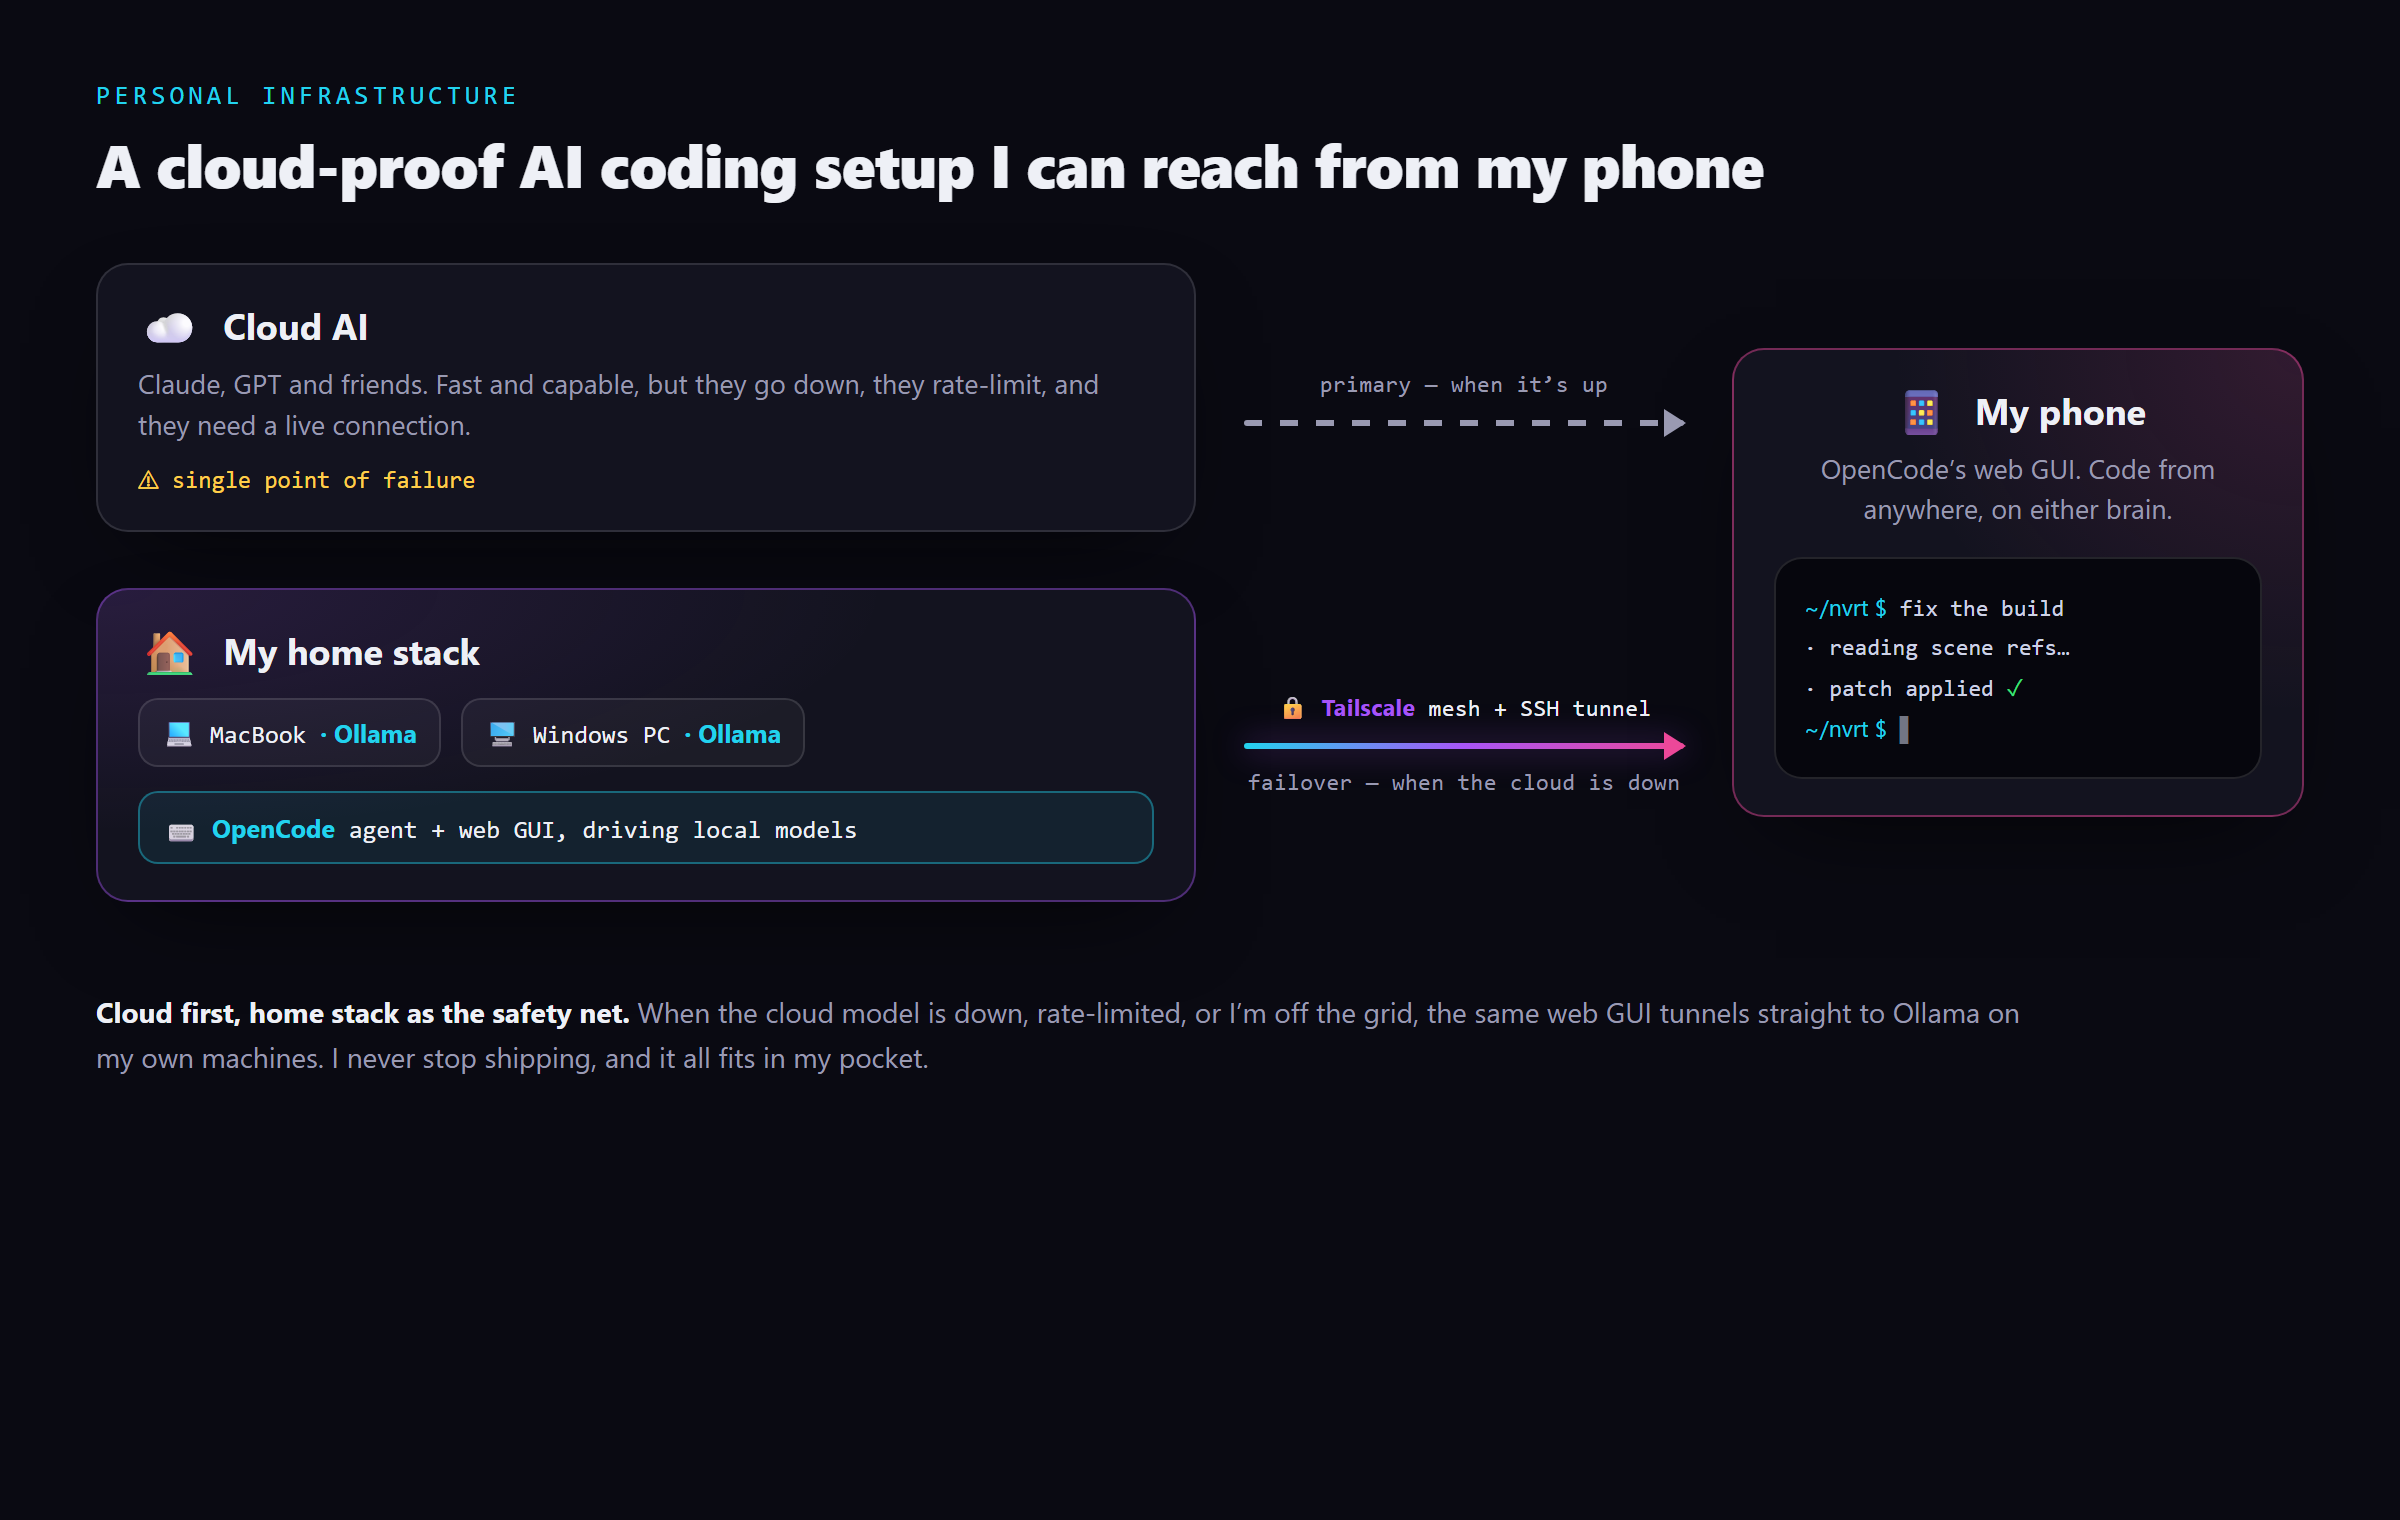
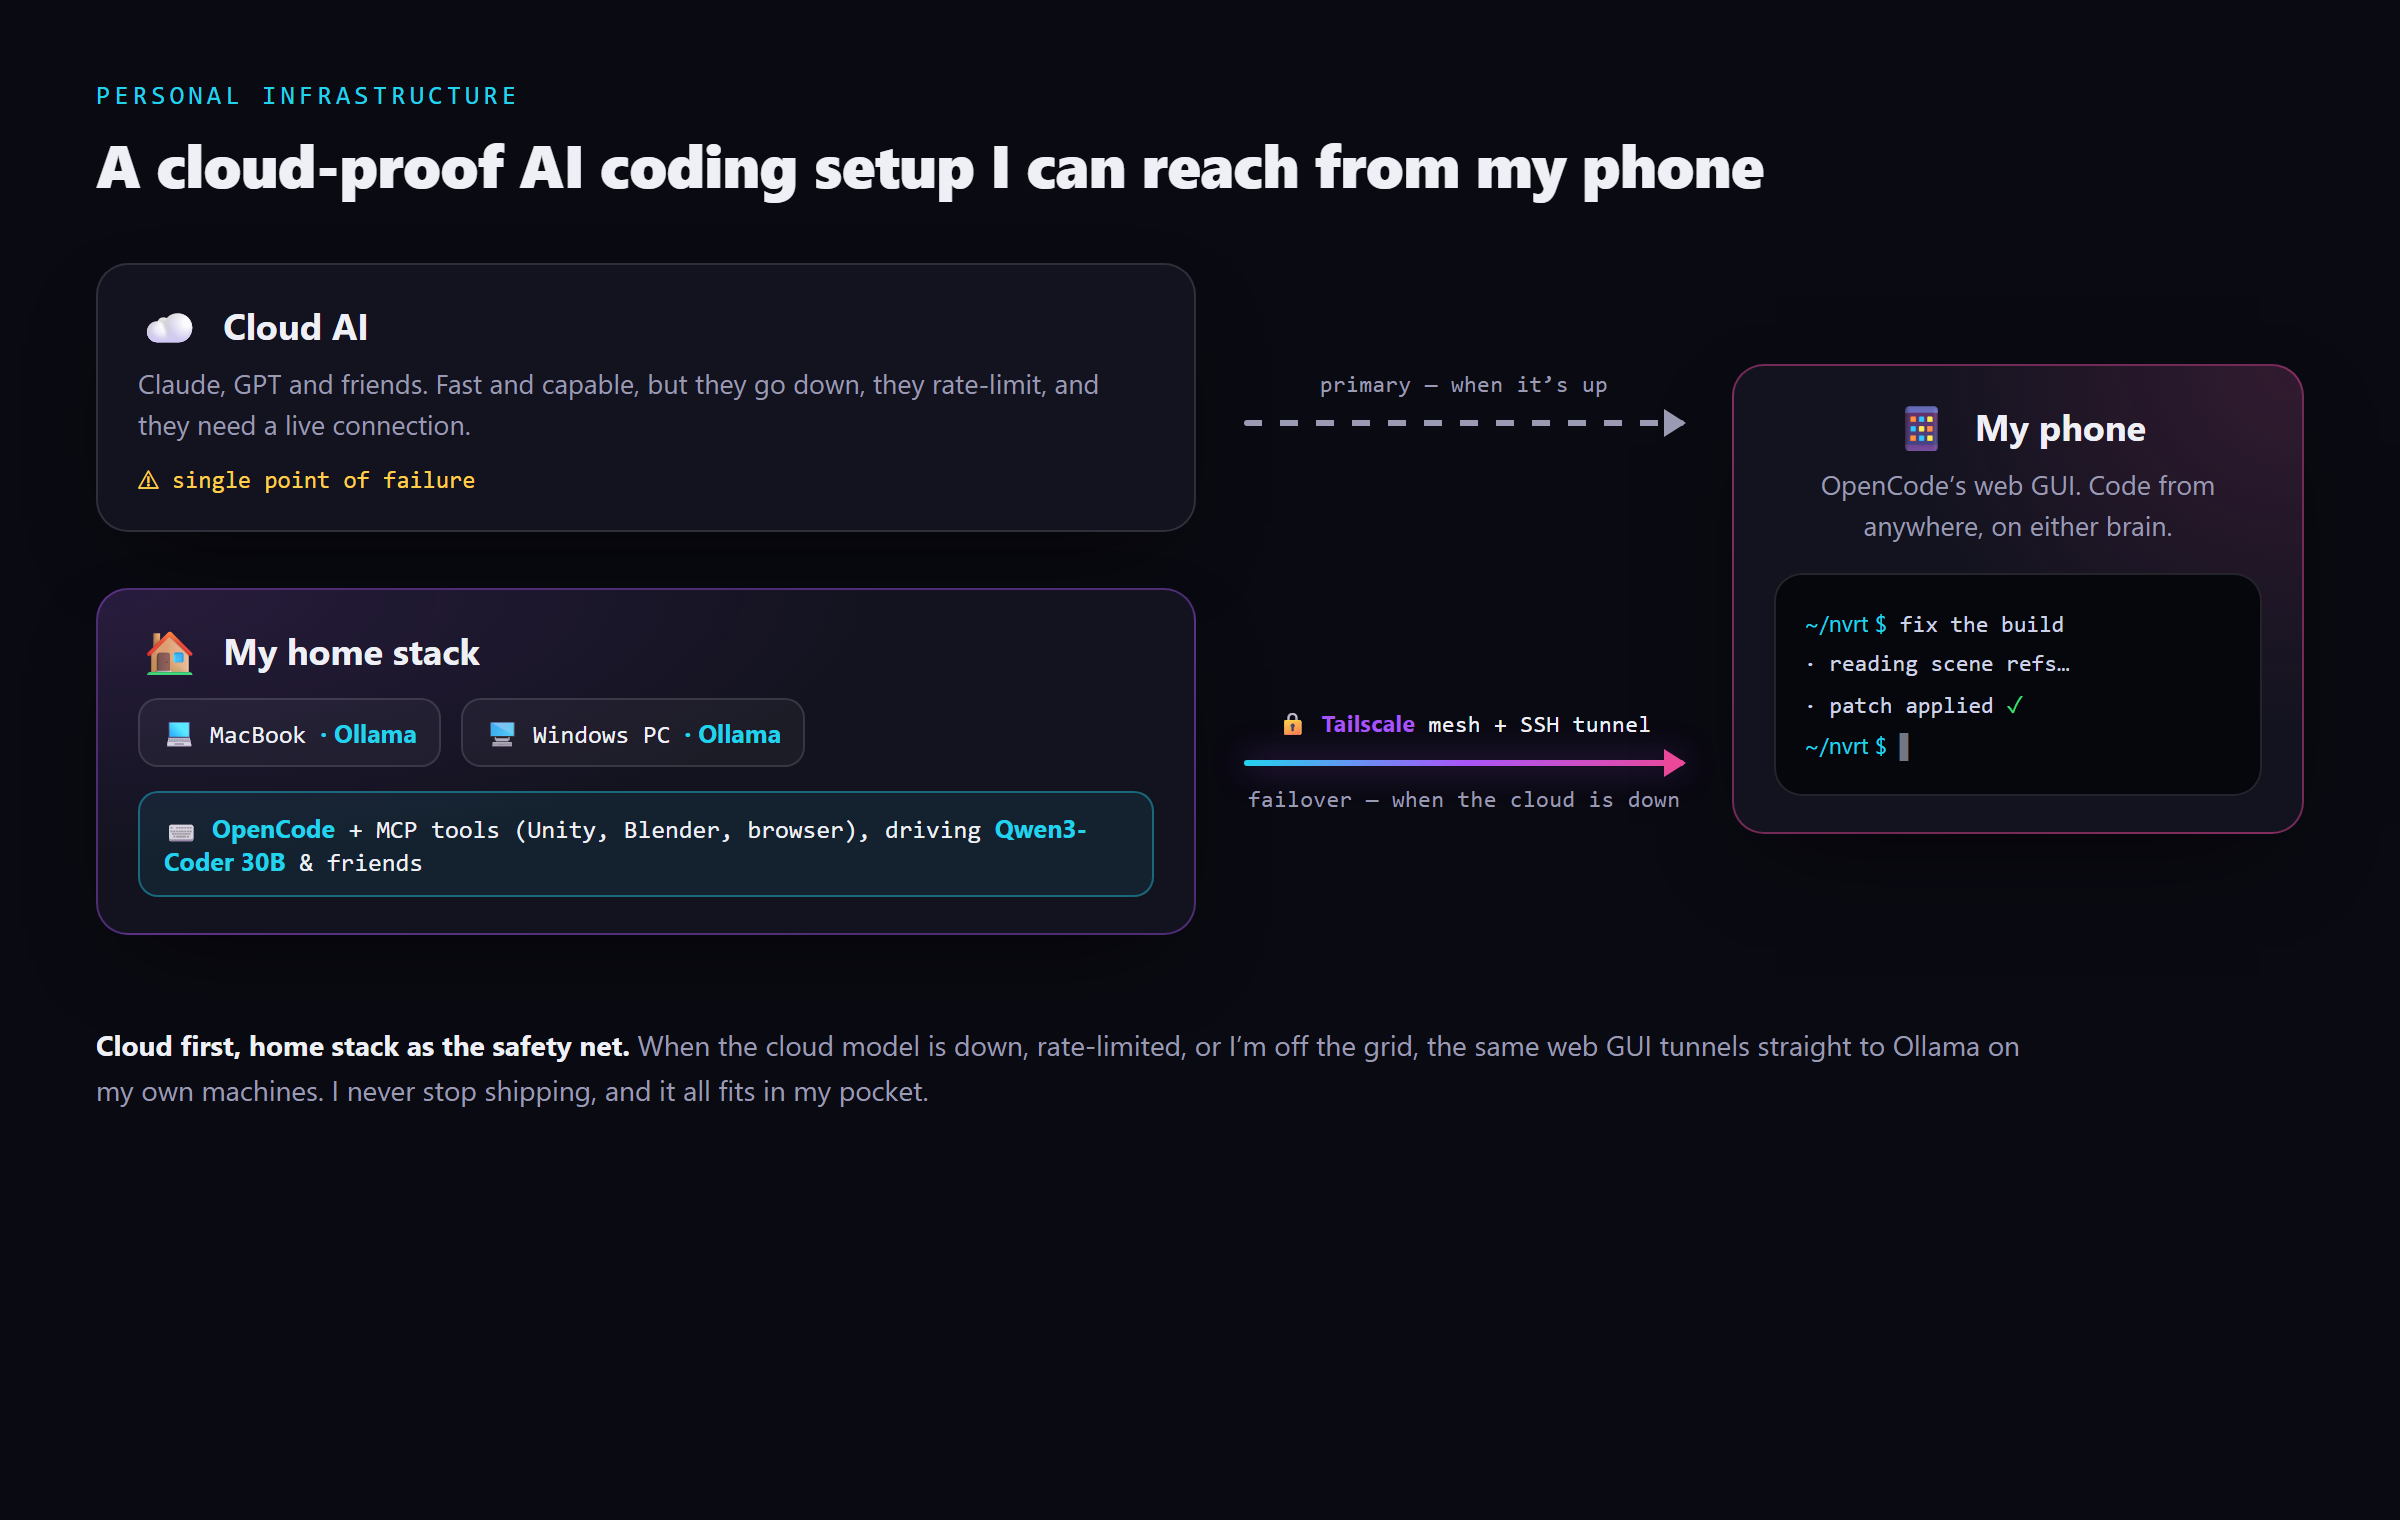
Off the clock: name the real local stack (Qwen3-Coder 30B + MCP tools) in copy and diagram

diff --git a/index.html b/index.html
@@ -566,11 +566,11 @@
   <div class="kicker reveal">04 &middot; Off the clock</div>
   <h2 class="reveal">A cloud-proof AI coding setup I run from my phone</h2>
   <p class="lead reveal">When a cloud AI provider has a bad afternoon, most devs stop. I point my editor at a machine in my apartment and keep going, even from my phone.</p>
-  <img class="infra-img reveal" src="assets/llm-architecture.png?v=1" alt="Architecture: Mac and Windows running Ollama, reached over a Tailscale mesh and an SSH tunnel, driven from a phone through OpenCode's web GUI, as a failover for when cloud AI is down" />
+  <img class="infra-img reveal" src="assets/llm-architecture.png?v=2" alt="Architecture: Mac and Windows running Ollama, reached over a Tailscale mesh and an SSH tunnel, driven from a phone through OpenCode's web GUI, as a failover for when cloud AI is down" />
   <div class="apigrid">
-    <div class="apicard reveal"><div class="ah"><h5>Self-hosted models</h5></div><p>Ollama on both my Mac and my Windows machine, so there is always a local brain awake to fall back to.</p></div>
+    <div class="apicard reveal"><div class="ah"><h5>Self-hosted models</h5></div><p>Ollama on both my Mac and Windows machines, running Qwen3-Coder 30B and a small bench of coding models, so there is always a local brain to fall back to.</p></div>
     <div class="apicard reveal"><div class="ah"><h5>Reachable from anywhere</h5></div><p>A Tailscale mesh plus an SSH tunnel put my phone and my machines on one private network. No public ports, no DNS gymnastics.</p></div>
-    <div class="apicard reveal"><div class="ah"><h5>A real agent, not a chat box</h5></div><p>OpenCode drives the local models through its web GUI, the same editor I use at my desk, just rendered on my phone.</p></div>
+    <div class="apicard reveal"><div class="ah"><h5>A real agent, not a chat box</h5></div><p>OpenCode drives the local models with the same MCP tools my cloud setup has (Unity, Blender, a browser), the same editor I use at my desk, on my phone.</p></div>
     <div class="apicard reveal"><div class="ah"><h5>Fails safe</h5></div><p>Cloud first, the home stack as the safety net. An outage, a rate limit, or one bar of signal, and I keep shipping.</p></div>
   </div>
   <p class="reveal" style="color:var(--muted);margin-top:22px">I wrote up the full build, from Ollama to the phone tunnel, <a href="https://medium.com/@arkantose.dc" target="_blank" rel="noopener">on Medium</a>.</p>